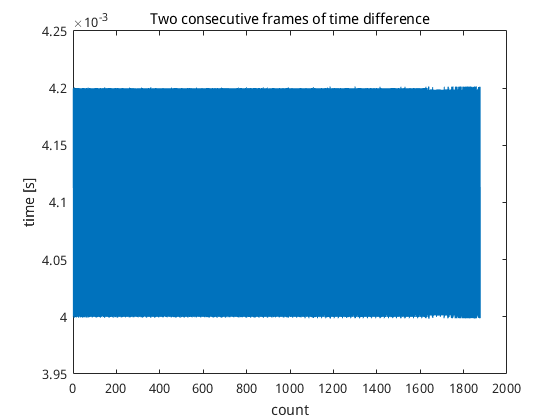
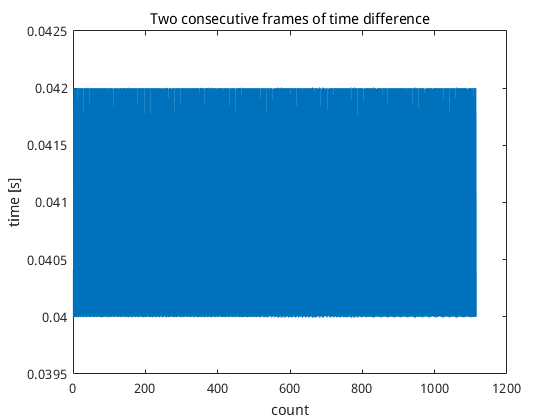
change timestamp factor

diff --git a/src/XP_sensor_driver.cc b/src/XP_sensor_driver.cc
@@ -317,7 +317,7 @@ void XpSensorMultithread::thread_pull_imu() {
     XPDRIVER::ScopedLoopProfilingTimer pull_imu_profiling_timer(
       "XpSensorMultithread::thread_pull_imu", 1);
     // sleep to get ~100 Hz rate
-    std::this_thread::sleep_for(std::chrono::microseconds(9900));
+    std::this_thread::sleep_for(std::chrono::microseconds(4950));
 
     XP_20608_data imu_data;
     bool imu_access_ok = (XP_SENSOR::IMU_DataAccess(video_sensor_file_id_, &imu_data));

diff --git a/src/ros_node.cpp b/src/ros_node.cpp
@@ -98,7 +98,7 @@ struct ImgForShow {
     }
 
     return ros::Time(
-        soft_time_begin + (_hard_time - hard_time_begin) * 0.00001f);
+        soft_time_begin + (_hard_time - hard_time_begin) * 0.0001f);
   }
 
 XPDRIVER::shared_queue<XPDRIVER::ImuData> imu_data_queue("imu_data_queue");
